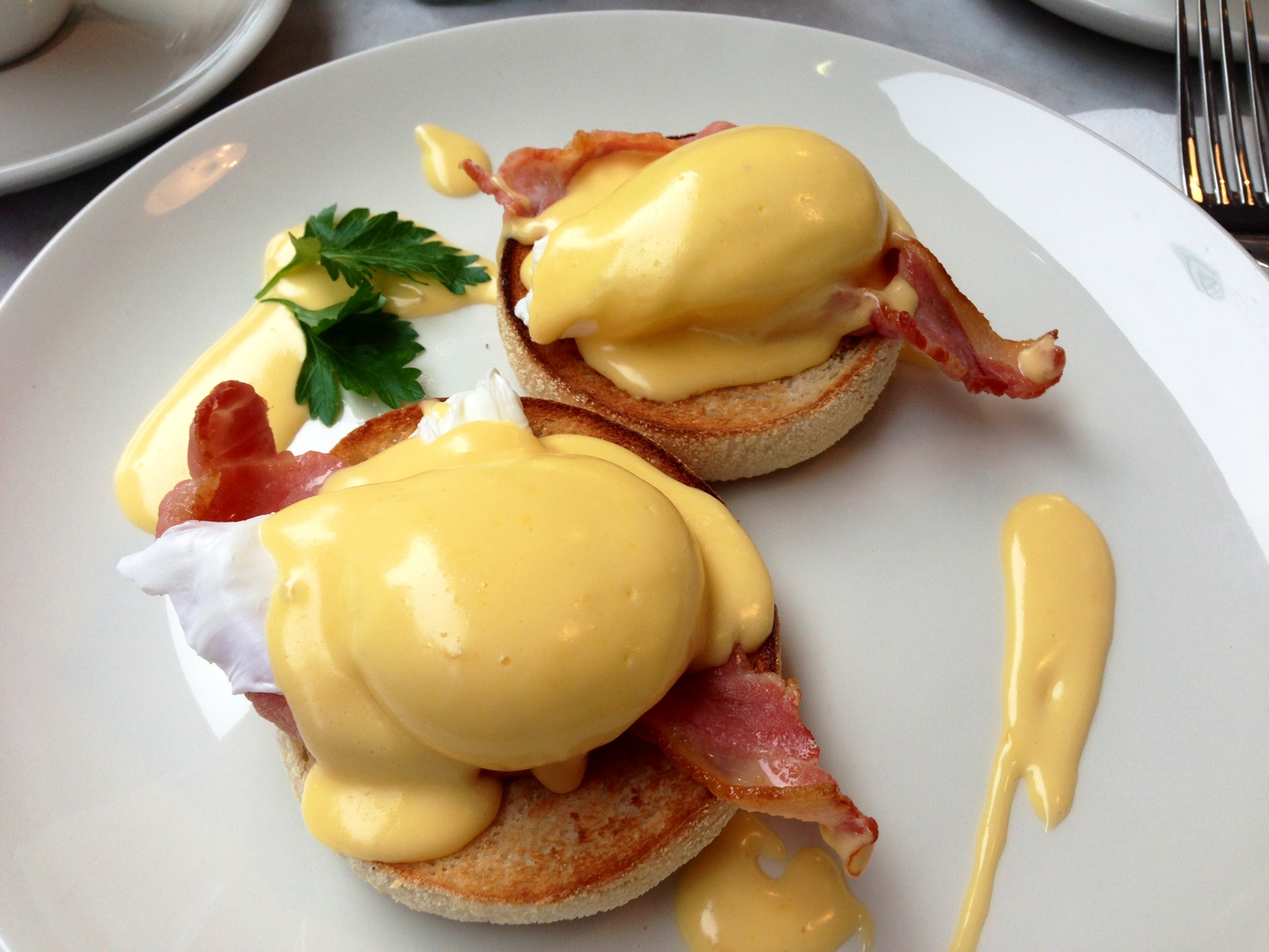
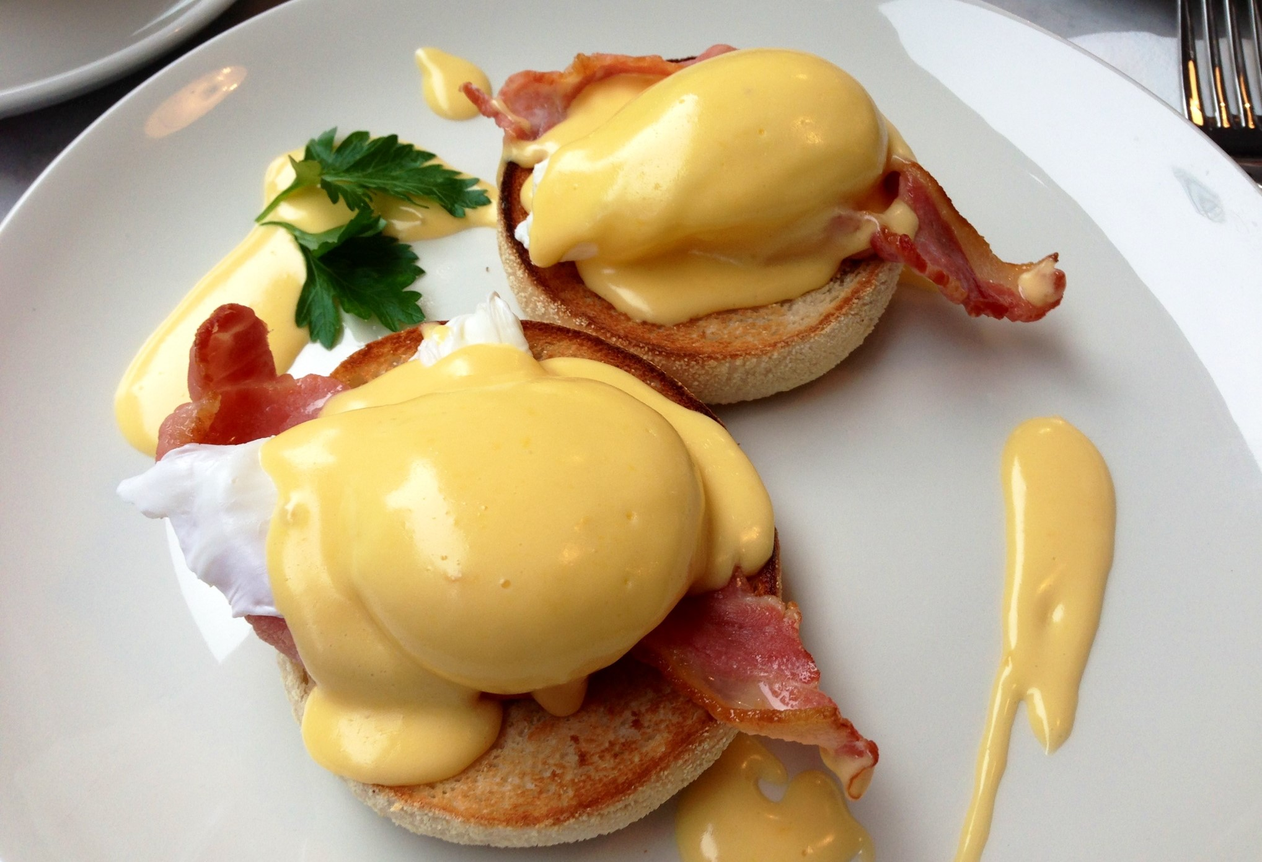
a

diff --git a/index.html b/index.html
@@ -58,7 +58,7 @@
                         <img src="img/avocado.jpg" alt="Egg B1" class="benny">
 
                         <div class="nameHeart" id="nameHeart">
-                            <h1>Avocado EB</h1>
+                            <h1>Avocado Eggs Benedict</h1>
                             <a href="#"><i class="material-icons" id="fave">favorite_border</i></a>
                         </div>
                         <div class="description">
@@ -150,7 +150,7 @@
                         <img src="img/burger_patty.jpg" alt="Egg B2" class="benny">
 
                         <div class="nameHeart" id="nameHeart">
-                            <h1>Burger Patty EB</h1>
+                            <h1>Burger Patty Eggs Benedict</h1>
                             <a href="#"><i class="material-icons" id="fave">favorite_border</i></a>
                         </div>  
 
@@ -167,7 +167,6 @@
                             </form>
                             <button class="addComment" id="addComment"> COMMENT </button>
                         </div>
-                        
 
                         <div class="shareThis" id="shareThis">
                             <ul>
@@ -183,7 +182,7 @@
                         <img src="img/fish_bene.jpg" alt="Egg B2" class="benny">
 
                         <div class="nameHeart" id="nameHeart">
-                            <h1>Fish EB</h1>
+                            <h1>Fish Eggs Benedict</h1>
                             <a href="#"><i class="material-icons" id="fave">favorite_border</i></a>
                         </div>  
 
@@ -214,14 +213,12 @@
                         <img src="img/florentine.jpg" alt="Egg B2" class="benny">
 
                         <div class="nameHeart" id="nameHeart">
-                            <h1>Florentine EB</h1>
+                            <h1>Florentine Eggs Benedict</h1>
                             <a href="#"><i class="material-icons" id="fave">favorite_border</i></a>
                         </div>    
                         <div class="description">
-                            
                             <p>Florentine benedict might not be everyone’s favourite, but definitely a treat for vegan or vegetarian folks out there. Also, if you’re a weight watcher or on keto diet it’s a good healthy option. It’s made out of gluten-free almond flour bun, eggs, spinach and drizzled with hollandaise sauce. Portion size of this benedict might look small, but honestly, it’s so filling that one bun is good enough for a wholesome breakfast. </p> 
                         </div>
-
                         <div class="comment" id="comment">
                             <form>
                                 <label for="comment"></label>
@@ -229,15 +226,20 @@
                             </form>
                             <button class="addComment" id="addComment"> COMMENT </button>
                         </div>
-                        
-                        
+                        <div class="shareThis" id="shareThis">
+                            <ul>
+                            <li><a href="https://www.facebook.com/login"><img src="img/facebook.svg"></a></li>
+                            <li><a href="https://www.instagram.com/accounts/login/?hl=en"><img src="img/instagram.svg"></a></li>
+                            <li><a href="https://twitter.com/login"><img src="img/twitter.svg"></a><li>
+                            </ul>
+                        </div>
                     </section> 
 
                     <section class="first">
                         <img src="img/ham_bene.jpeg" alt="Egg B2" class="benny">
 
                         <div class="nameHeart" id="nameHeart">
-                            <h1>Ham EB</h1>
+                            <h1>Ham Eggs Benedict</h1>
                             <a href="#"><i class="material-icons" id="fave">favorite_border</i></a>
                         </div> 
                         <div class="description">
@@ -267,7 +269,7 @@
                         <img src="img/hash_&_ham.jpg" alt="Egg B2" class="benny">
 
                         <div class="nameHeart" id="nameHeart">
-                            <h1>Hash & Ham EB</h1>
+                            <h1>Hash & Ham Eggs Benedict</h1>
                             <a href="#"><i class="material-icons" id="fave">favorite_border</i></a>
                         </div>
                          
@@ -298,7 +300,7 @@
                         <img src="img/pulled_pork.jpg" alt="Egg B2" class="benny">
 
                         <div class="nameHeart" id="nameHeart">
-                            <h1>Pulled Pork EB</h1>
+                            <h1>Pulled Pork Eggs Benedict/h1>
                             <a href="#"><i class="material-icons" id="fave">favorite_border</i></a>
                         </div>
                             
@@ -329,7 +331,7 @@
                         <img src="img/sweet_pot.jpg" alt="Egg B2" class="benny">
 
                         <div class="nameHeart" id="nameHeart">
-                            <h1>Sweet Potato EB</h1>
+                            <h1>Sweet Potato Eggs Benny</h1>
                             <a href="#"><i class="material-icons" id="fave">favorite_border</i></a>
                         </div> 
                         <div class="description">
@@ -359,7 +361,7 @@
                         <img src="img/waffle_bene.jpg" alt="Egg B2" class="benny">
 
                         <div class="nameHeart" id="nameHeart">
-                            <h1>Waffles EB</h1>
+                            <h1>Waffles Eggs Benedict</h1>
                             <a href="#"><i class="material-icons" id="fave">favorite_border</i></a>
                         </div>
                         <div class="description">

diff --git a/css/index.css b/css/index.css
@@ -16,7 +16,7 @@ body {
     color: var(--txt);
 }
 img {
-    width: 100%;
+    width: 95%;
 }
 textarea {
     width: 350px;
@@ -123,7 +123,6 @@ main> section> .intro ul li {
     padding:1em;
 }
 .intro {
-    position: fixed;
     text-align: center;
     padding-top: 0px;
     margin-top: 0px;
@@ -157,6 +156,9 @@ main> section> .intro ul li {
     grid-template-areas:
     "a b 0";
 }
+.benny {
+    place-self: center;
+}
 .ben {
     display: grid;
     grid-auto-rows: 100vh;
@@ -167,11 +169,13 @@ main> section> .intro ul li {
 }
 .ben {
     grid-area: b;
+    padding-top: 1em;
 }
 .first{
+    display: grid;
     padding:2em;
+    place-self: center center;
 }
-
 .nameHeart {
     display: grid;
     grid-template-columns: 1fr 0.5fr ;
